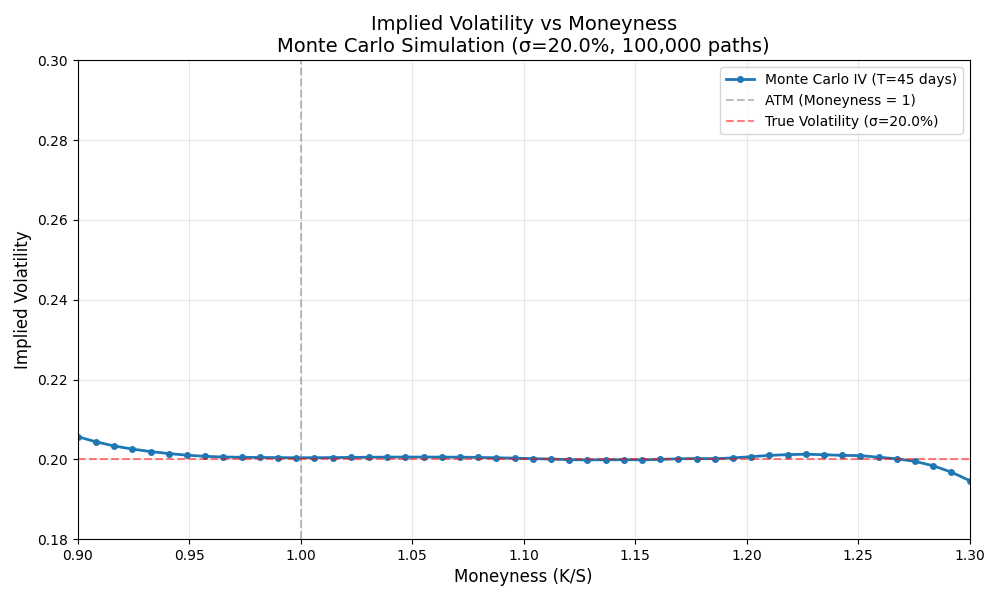
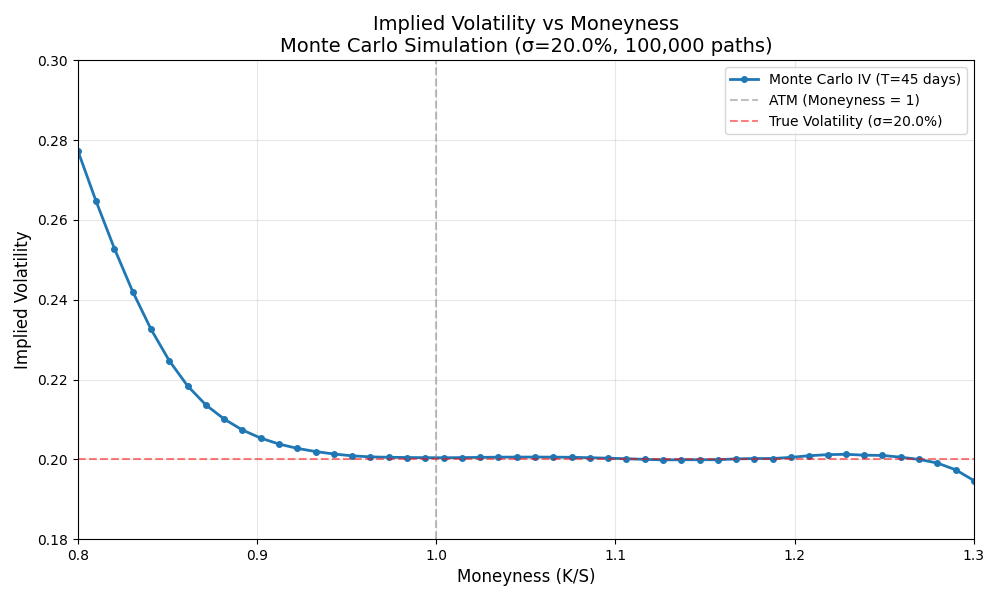
commit paper/figures/ and src/

diff --git a/src/monte_carlo/simulate_gbm.py b/src/monte_carlo/simulate_gbm.py
@@ -46,7 +46,7 @@ S_paths = np.column_stack([np.full(n_paths, S0), np.exp(log_S)])
 S_T = np.exp(log_S[:, -1])
 
 # Sweep over moneyness values
-moneyness_grid = np.linspace(0.90, 1.30, 50)
+moneyness_grid = np.linspace(0.80, 1.30, 50)
 K_grid = moneyness_grid * S0
 
 call_prices_std = []
@@ -78,7 +78,7 @@ ax.axvline(x=1, color='gray', linestyle='--', alpha=0.5, label='ATM (Moneyness =
 ax.axhline(y=sigma, color='r', linestyle='--', alpha=0.5, label=f'True Volatility (σ={sigma:.1%})')
 ax.set_xlabel('Moneyness (K/S)', fontsize=12)
 ax.set_ylabel('Implied Volatility', fontsize=12)
-ax.set_xlim(0.9, 1.3)
+ax.set_xlim(0.80, 1.3)
 ax.set_ylim(0.18, 0.3)
 ax.set_title(f'Implied Volatility vs Moneyness\nMonte Carlo Simulation (σ={sigma:.1%}, {n_paths:,} paths)', fontsize=14)
 ax.grid(True, alpha=0.3)

diff --git a/src/monte_carlo/compare_distributions.py b/src/monte_carlo/compare_distributions.py
@@ -30,7 +30,7 @@ dt = 1/252
 n_steps = int(T/dt)
 
 # Sweep over moneyness values
-moneyness_grid = np.linspace(0.90, 1.30, 50)
+moneyness_grid = np.linspace(0.80, 1.30, 50)
 K_grid = moneyness_grid * S0
 
 # Store results for each nu
@@ -135,7 +135,7 @@ ax.axvline(x=1, color='gray', linestyle='--', alpha=0.5, label='ATM (Moneyness =
 ax.axhline(y=sigma, color='r', linestyle='--', alpha=0.5, label=f'True Volatility (σ={sigma:.1%})')
 ax.set_xlabel('Moneyness (K/S)', fontsize=12)
 ax.set_ylabel('Implied Volatility', fontsize=12)
-ax.set_xlim(0.9, 1.3)
+ax.set_xlim(0.80, 1.3)
 ax.set_ylim(0.18, 0.3)
 ax.set_title(f'Implied Volatility vs Moneyness\nNormal vs Student-t Distributions (σ={sigma:.1%}, {n_paths:,} paths)', fontsize=14)
 ax.grid(True, alpha=0.3)

diff --git a/src/monte_carlo/simulate_student_t.py b/src/monte_carlo/simulate_student_t.py
@@ -30,7 +30,7 @@ dt = 1/252
 n_steps = int(T/dt)
 
 # Sweep over moneyness values
-moneyness_grid = np.linspace(0.90, 1.30, 50)
+moneyness_grid = np.linspace(0.80, 1.30, 50)
 K_grid = moneyness_grid * S0
 
 # Store results for each nu
@@ -97,7 +97,7 @@ ax.axvline(x=1, color='gray', linestyle='--', alpha=0.5, label='ATM (Moneyness =
 ax.axhline(y=sigma, color='r', linestyle='--', alpha=0.5, label=f'True Volatility (σ={sigma:.1%})')
 ax.set_xlabel('Moneyness (K/S)', fontsize=12)
 ax.set_ylabel('Implied Volatility', fontsize=12)
-ax.set_xlim(0.9, 1.3)
+ax.set_xlim(0.80, 1.3)
 ax.set_ylim(0.18, 0.3)
 ax.set_title(f'Implied Volatility vs Moneyness\nStudent-t Distribution (σ={sigma:.1%}, {n_paths:,} paths)', fontsize=14)
 ax.grid(True, alpha=0.3)

diff --git a/src/analysis/theoretical_iv.py b/src/analysis/theoretical_iv.py
@@ -75,7 +75,7 @@ ax.plot(moneyness, ivs, 'o-', linewidth=2, markersize=4, label=f'{int(T*365)} da
 ax.axvline(x=1, color='gray', linestyle='--', alpha=0.5, label='ATM (Moneyness = 1)')
 ax.set_xlabel('Moneyness (K/S)', fontsize=12)
 ax.set_ylabel('Implied Volatility', fontsize=12)
-ax.set_xlim(x_min, x_max)
+ax.set_xlim(0.80, 1.3)
 ax.set_ylim(0.18, 0.3)
 ax.set_title(f'Simulated Implied Volatility vs Moneyness\n(Flat σ = {true_volatility:.1%})', fontsize=14)
 ax.grid(True, alpha=0.3)

diff --git a/src/analysis/aapl_iv.py b/src/analysis/aapl_iv.py
@@ -90,7 +90,7 @@ ax.plot(valid_calls['moneyness'], valid_calls['iv'], 'o-', linewidth=2, markersi
 ax.axvline(x=1, color='gray', linestyle='--', alpha=0.5, label='ATM (Moneyness = 1)')
 ax.set_xlabel('Moneyness (K/S)', fontsize=12)
 ax.set_ylabel('Implied Volatility', fontsize=12)
-ax.set_xlim(x_min, x_max)
+ax.set_xlim(0.80, 1.3)
 ax.set_ylim(0.18, 0.3)
 ax.set_title(f'Implied Volatility vs Moneyness - {ticker}\nExpiry: ({days_to_exp} days)', fontsize=14)
 ax.grid(True, alpha=0.3)
